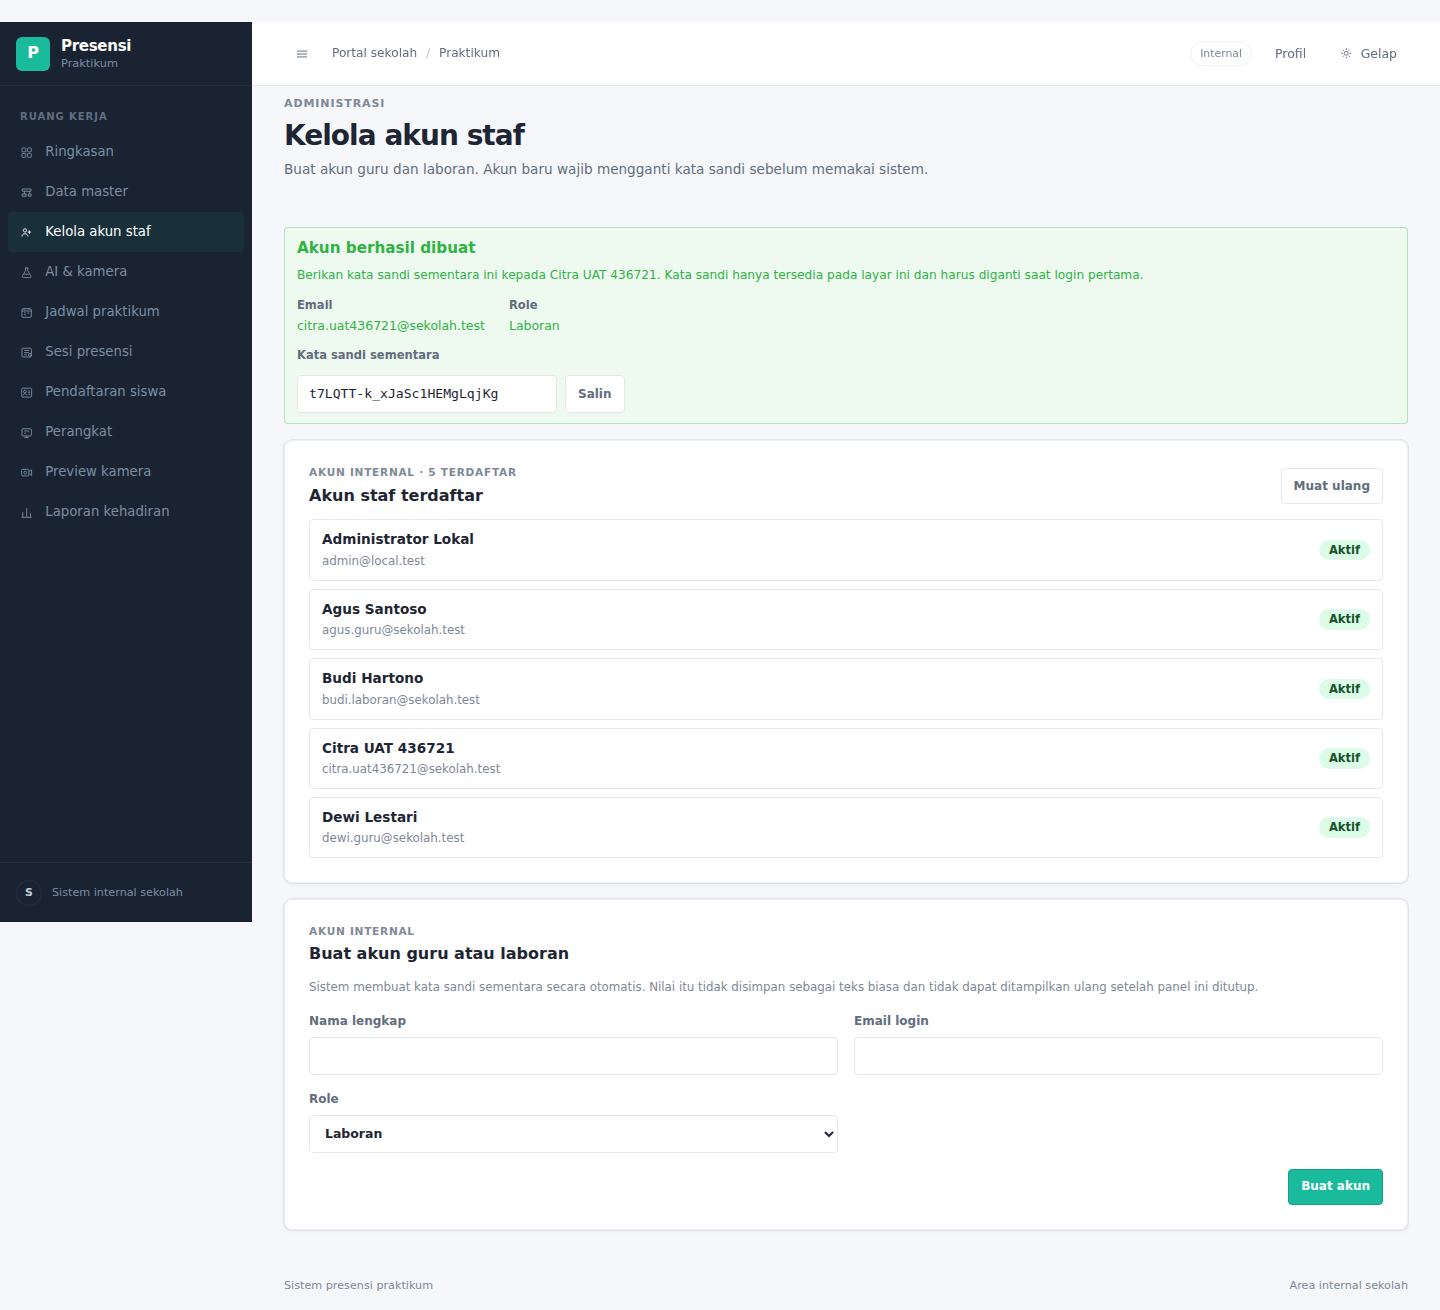
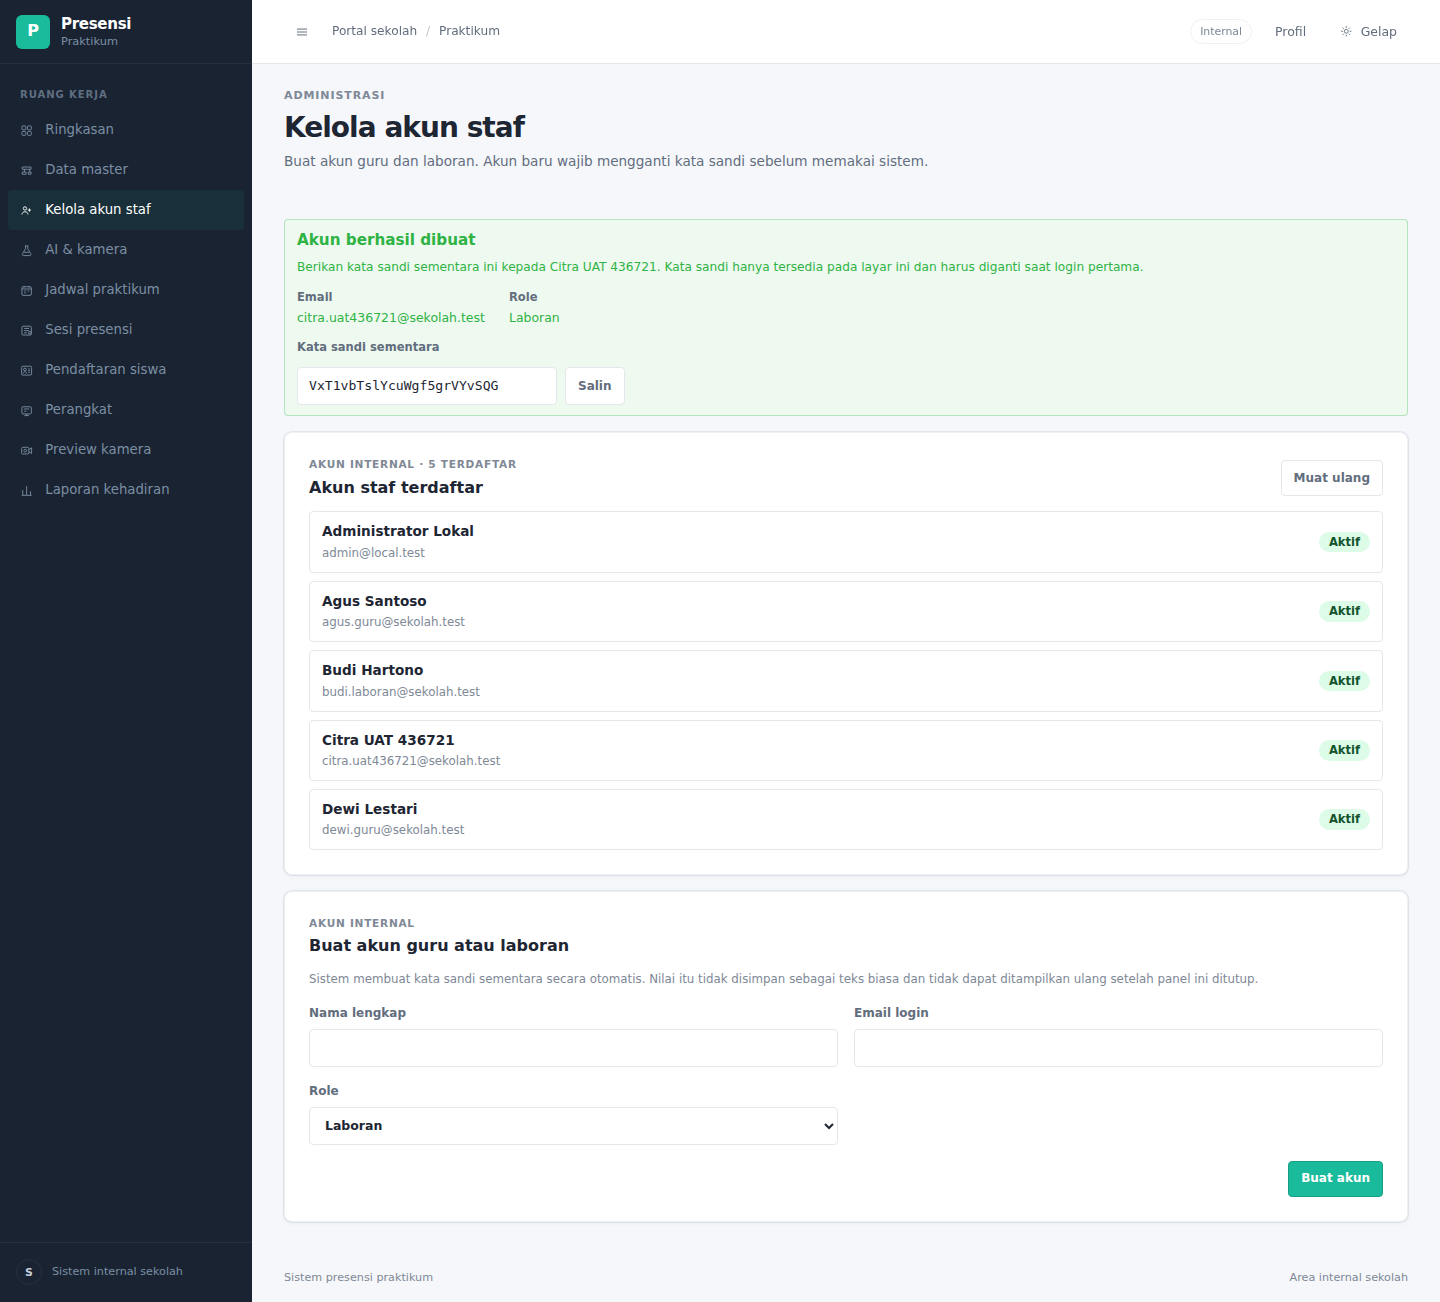
CI hijau + screenshot rapi: fix 4 e2e, shell sticky, seed sadar-waktu, retake 30 shot
- CI: camera-preview is-ready di rect + copy fullscreen accepted; realtime sessionList 2x (active+override); sessions: rewrite uji auto-open ke window baru; ai-setup: lepas required native agar alert kalibrasi tampil (validasi kustom). Semua 4 spec hijau lokal kondisi CI (API_PROXY_TARGET mati), typecheck+e2e-tsc bersih.
- Layout: sidebar/topbar fixed -> sticky-in-flow (runtime identik); tabel laporan wrap 9 kolom muat 1440px; fullPage shot benar (sidebar penuh, topbar di atas, tanpa overflow).
- Seed: demo_window() ikut jam jalan + clamp 23:59, two-pass reuse/geser via PATCH; ruff/format/mypy bersih; 18/18 idempoten.
- Docs/demo: 30 screenshot panjang diretake + rekap.csv/xlsx baru; README + jejak perubahan-diagram diperbarui.

diff --git a/apps/web/e2e/sessions.spec.ts b/apps/web/e2e/sessions.spec.ts
@@ -122,9 +122,7 @@ test('teacher opens and manually closes a session with a roster snapshot', async
   await expect(page.getByRole('status')).toContainText('telah ditutup')
 })
 
-test('admin can enable automatic schedule opening with a configurable time window', async ({
-  page,
-}) => {
+test('admin can configure the automatic opening window', async ({ page }) => {
   const timestamp = '2026-10-05T02:05:00Z'
   const schedule = {
     id: 'schedule-1',
@@ -138,7 +136,7 @@ test('admin can enable automatic schedule opening with a configurable time windo
     timezone_name: 'Asia/Jakarta',
   }
   let policy: Record<string, unknown> = {
-    mode: 'manual',
+    mode: 'automatic',
     auto_open_minutes_before: 0,
     auto_open_minutes_after: 15,
     default_grace_period_minutes: 15,
@@ -182,7 +180,7 @@ test('admin can enable automatic schedule opening with a configurable time windo
       return route.fulfill({ status: 200, json: policy })
     }
     if (url.pathname.endsWith('/openable-schedules')) {
-      return route.fulfill({ status: 200, json: policy.mode === 'automatic' ? [] : [schedule] })
+      return route.fulfill({ status: 200, json: [schedule] })
     }
     return route.fulfill({
       status: 200,
@@ -197,17 +195,16 @@ test('admin can enable automatic schedule opening with a configurable time windo
   await expect(page).toHaveURL(/\/app\/sessions$/)
   await expect(page.getByRole('heading', { name: 'Cara membuka presensi' })).toBeVisible()
 
-  await page.getByLabel('Mode pembukaan').selectOption('automatic')
   await page.getByLabel('Buka sebelum jadwal').fill('15')
   await page.getByLabel('Buka setelah jadwal mulai').fill('5')
   await page.getByRole('button', { name: 'Simpan kebijakan' }).click()
 
-  await expect(page.locator('.master-data__success')).toContainText('Pembukaan otomatis tersimpan')
-  await expect(page.getByText('Sesi akan mengikuti jadwal laboratorium')).toBeVisible()
-  await expect(page.getByTestId('no-openable-schedules')).toHaveCount(0)
-  await expect(page.getByRole('button', { name: 'Buka sesi' })).toHaveCount(0)
+  await expect(page.locator('.master-data__success')).toContainText(
+    'Jendela buka otomatis dan grace period tersimpan',
+  )
+  await expect(page.getByText('Pembukaan otomatis aktif')).toBeVisible()
+  await expect(page.getByRole('button', { name: 'Buka sesi' })).toHaveCount(1)
   expect(policy).toMatchObject({
-    mode: 'automatic',
     auto_open_minutes_before: 15,
     auto_open_minutes_after: 5,
   })

diff --git a/apps/web/src/style.scss b/apps/web/src/style.scss
@@ -51,7 +51,9 @@ a:focus-visible {
 .app-shell {
   --shell-sidebar-width: var(--sidebar-w);
 
+  display: flex;
   min-height: 100vh;
+  align-items: stretch;
 }
 
 .app-shell--sidebar-collapsed {
@@ -59,11 +61,13 @@ a:focus-visible {
 }
 
 .app-sidebar {
-  position: fixed;
+  position: sticky;
   z-index: 30;
-  inset: 0 auto 0 0;
+  top: 0;
   display: flex;
   width: var(--shell-sidebar-width);
+  height: 100vh;
+  flex: 0 0 auto;
   flex-direction: column;
   overflow: hidden;
   color: var(--sidebar-text);
@@ -121,6 +125,7 @@ a:focus-visible {
 
 .app-sidebar__nav {
   flex: 1;
+  overflow-y: auto;
   padding: var(--space-3) var(--space-2);
 }
 
@@ -214,26 +219,26 @@ a:focus-visible {
 }
 
 .app-shell__workspace {
+  display: flex;
+  min-width: 0;
+  flex: 1 1 auto;
+  flex-direction: column;
   min-height: 100vh;
-  margin-left: var(--shell-sidebar-width);
-  transition: margin-left 180ms ease;
 }
 
 .app-topbar {
-  position: fixed;
+  position: sticky;
   z-index: 20;
   top: 0;
-  right: 0;
-  left: var(--shell-sidebar-width);
   display: flex;
   height: 64px;
+  flex: 0 0 auto;
   align-items: center;
   justify-content: space-between;
   padding: 0 var(--space-6);
   border-bottom: 1px solid var(--border-color);
   background: color-mix(in srgb, var(--bg-surface) 92%, transparent);
   backdrop-filter: blur(12px);
-  transition: left 180ms ease;
 }
 
 .app-topbar__left,
@@ -376,7 +381,7 @@ a:focus-visible {
   width: min(100%, 1440px);
   min-height: calc(100vh - 116px);
   margin: 0 auto;
-  padding: 96px var(--space-6) var(--space-7);
+  padding: var(--space-6) var(--space-6) var(--space-7);
 }
 
 .page-header {
@@ -680,7 +685,10 @@ a:focus-visible {
   }
 
   .app-sidebar {
+    position: fixed;
+    inset: 0 auto 0 0;
     width: min(var(--sidebar-w), calc(100vw - 56px));
+    height: auto;
     transform: translateX(-100%);
   }
 
@@ -714,14 +722,6 @@ a:focus-visible {
     display: block;
     border: 0;
     background: rgb(9 17 28 / 44%);
-  }
-
-  .app-topbar {
-    left: 0;
-  }
-
-  .app-shell__main {
-    padding-top: 92px;
   }
 }
 
@@ -1510,6 +1510,12 @@ a:focus-visible {
   color: var(--text);
   font-size: 1.35rem;
   font-weight: 600;
+}
+
+.reports__table th,
+.reports__table td {
+  white-space: normal;
+  vertical-align: top;
 }
 
 .reports__table td strong,

diff --git a/apps/web/e2e/camera-preview.spec.ts b/apps/web/e2e/camera-preview.spec.ts
@@ -163,7 +163,7 @@ test('AI_EDGE dashboard shows its single preview and accepted student identity',
   await expect(
     page.getByText(/MIPA 1.*Kemiripan model 90.2%.*Identitas masih kandidat/),
   ).toBeVisible()
-  await expect(page.getByRole('link', { name: 'Buka AI & kamera' })).toBeVisible()
+  await expect(page.getByRole('link', { name: 'Atur kualitas & pengenalan' })).toBeVisible()
   await expect(page.getByText('Kandidat sementara · belum diverifikasi presensi')).toBeVisible()
   const candidatePanel = page.locator('.camera-preview-view__candidate')
   await expect(candidatePanel).toContainText('Yoga')
@@ -179,14 +179,14 @@ test('AI_EDGE dashboard shows its single preview and accepted student identity',
 
   recognitionState = 'accepted'
   await expect(page.getByRole('heading', { name: 'Yoga' })).toBeVisible()
-  await expect(page.getByText(/Presensi menunggu validasi Core API/)).toBeVisible()
+  await expect(page.getByText(/Identitas cocok. Mengirim presensi/)).toBeVisible()
   await expect(page.getByRole('img')).toHaveCount(1)
 
   await page.getByRole('button', { name: 'Tampilan depan kamera' }).click()
   await expect(page.locator('.camera-preview-view')).toBeVisible()
   await expect(page.getByText('Kandidat sementara · belum diverifikasi presensi')).toHaveCount(0)
-  await expect(page.getByRole('heading', { name: 'Memeriksa presensi' })).toBeVisible()
-  await expect(page.locator('.camera-preview-view__identity h3')).not.toHaveText('Yoga')
+  await expect(page.getByRole('heading', { name: 'Yoga' })).toBeVisible()
+  await expect(page.getByText('Identitas cocok · menunggu konfirmasi server')).toBeVisible()
   attendanceRecorded = true
   await expect(page.getByRole('heading', { name: 'Yoga' })).toBeVisible({
     timeout: 5000,

diff --git a/apps/web/src/views/AiSetupView.vue b/apps/web/src/views/AiSetupView.vue
@@ -92,12 +92,6 @@ const selectedDevice = computed(
 const edgeThresholdsConfigured = computed(
   () => edgeForm.value.min_top1_similarity !== null && edgeForm.value.min_top1_top2_margin !== null,
 )
-const centralThresholdsConfigured = computed(
-  () =>
-    centralForm.value.min_top1_similarity !== null &&
-    centralForm.value.min_top1_top2_margin !== null,
-)
-
 const centralUsesFactoryDefaults = computed(() =>
   isFactoryDefaultReference(centralForm.value.calibration_reference),
 )
@@ -978,7 +972,6 @@ onBeforeUnmount(() => {
               v-model="centralForm.calibration_reference"
               type="text"
               maxlength="200"
-              :required="centralThresholdsConfigured"
               placeholder="Wajib diisi bila threshold diatur"
           /></label>
           <p v-if="centralUsesFactoryDefaults" class="ai-setup-view__note" role="status">

diff --git a/apps/web/src/views/CameraPreviewView.vue b/apps/web/src/views/CameraPreviewView.vue
@@ -580,7 +580,10 @@ onBeforeUnmount(() => {
                 :y="face.y * cameraObservation.frame_height"
                 :width="face.width * cameraObservation.frame_width"
                 :height="face.height * cameraObservation.frame_height"
-                class="camera-preview-view__face-box"
+                :class="[
+                  'camera-preview-view__face-box',
+                  face.acceptable || identityMatched ? 'is-ready' : 'is-adjust',
+                ]"
               />
               <template v-if="face.detection_confidence !== undefined">
                 <rect

diff --git a/apps/web/e2e/realtime-dashboard.spec.ts b/apps/web/e2e/realtime-dashboard.spec.ts
@@ -151,7 +151,8 @@ test('teacher dashboard applies mocked realtime attendance and device updates', 
   await expect(page.getByTestId('metric-not-present').locator('strong')).toHaveText('1')
   await expect(page.getByText('Siswa Dua')).toBeVisible()
   await expect(page.getByText('Offline')).toBeVisible()
-  expect(sessionListRequests).toBe(1)
+  // Daftar sesi diambil 2x saat pemuatan awal: sesi aktif + sesi override manual.
+  expect(sessionListRequests).toBe(2)
   expect(snapshotRequests).toBe(1)
   await expect(page.getByText(/embedding|foto wajah/i)).toHaveCount(0)
 })

diff --git a/scripts/seed-demo.py b/scripts/seed-demo.py
@@ -2,7 +2,7 @@
 
 Idempoten: aman dijalankan ulang (get-or-create + lewati event/mark yang
 sudah tercatat). Alur: bootstrap admin -> ganti sandi -> akun guru/laboran
--> lab/kelas/siswa -> jadwal hari berjalan (menutupi jam demo) -> device +
+-> lab/kelas/siswa -> jadwal demo (window ikut jam jalan) -> device +
 kredensial -> sesi RPL AKTIF (campuran present/manual/late/excused/absent +
 1 unrecorded) -> sesi TKJ DITUTUP (ada absen otomatis) -> heartbeat Online.
 
@@ -219,30 +219,73 @@ cls_tkj, sis_tkj = buat_kelas_siswa(
 )
 
 
-# 5. jadwal hari berjalan (menutupi jam demo)
+# 5. jadwal demo: window mengikuti jam jalan (sesi lama auto-tutup di akhir jadwal,
+#    jadi window statis hanya hidup beberapa jam). Idempoten: cocokkan jadwal by
+#    (kelas, mapel, weekday); bila window kedaluwarsa, geser via PUT.
+def demo_window() -> tuple[str, str]:
+    from datetime import timedelta
+
+    mulai = (now_jkt - timedelta(minutes=30)).replace(second=0, microsecond=0)
+    selesai = (now_jkt + timedelta(hours=2)).replace(second=0, microsecond=0)
+    # Lewat tengah malam -> kunci di 23:59 hari yang sama.
+    if selesai.time() <= mulai.time():
+        selesai = now_jkt.replace(hour=23, minute=59, second=0, microsecond=0)
+    if mulai >= selesai:
+        mulai = (selesai - timedelta(hours=2)).replace(second=0, microsecond=0)
+    return mulai.strftime("%H:%M:%S"), selesai.strftime("%H:%M:%S")
+
+
+WIN_START, WIN_END = demo_window()
+
+
+def window_covers_now(it: dict[str, Any]) -> bool:
+    sekarang = now_jkt.strftime("%H:%M:%S")
+    mulai = str(it.get("start_time", ""))
+    selesai = str(it.get("end_time", ""))
+    return bool(mulai <= sekarang <= selesai)
+
+
 def buat_jadwal(
     cls: dict[str, Any],
     lab: dict[str, Any],
     teacher_id: str,
     subject: str,
-    start: str,
-    end: str,
 ) -> dict[str, Any]:
+    start, end = WIN_START, WIN_END
     r = c.get("/api/v1/schedules", headers=A, params={"limit": 100})
+    cocok: list[dict[str, Any]] = []
     if r.status_code == 200:
         sched_rows: list[dict[str, Any]] = r.json().get("items", [])
-        for it in sched_rows:
+        cocok = [
+            it
+            for it in sched_rows
             if (
-                (
-                    it.get("school_class_id") == cls["id"]
-                    or it.get("class_id") == cls["id"]
-                )
-                and it.get("weekday") == weekday
-                and it.get("start_time", "").startswith(start[:5])
-            ):
+                it.get("school_class_id") == cls["id"]
+                or it.get("class_id") == cls["id"]
+            )
+            and it.get("weekday") == weekday
+            and it.get("subject") == subject
+        ]
+        for it in cocok:  # pass 1: pakai yang window-nya menutupi jam jalan
+            if window_covers_now(it):
                 print("INFO jadwal ada:", subject)
                 check(f"jadwal {subject}", True)
                 return it
+        for it in cocok:  # pass 2: geser window yang kedaluwarsa
+            if True:
+                u = c.patch(
+                    f"/api/v1/schedules/{it['id']}",
+                    headers=A,
+                    json={
+                        "start_time": start,
+                        "end_time": end,
+                        "effective_from": today,
+                    },
+                )
+                assert u.status_code == 200, u.text[:300]
+                print("INFO jadwal digeser ke jam jalan:", subject, start, "-", end)
+                check(f"jadwal {subject}", True)
+                return dict(u.json())
     r = c.post(
         "/api/v1/schedules",
         headers=A,
@@ -272,12 +315,8 @@ def buat_jadwal(
     return payload
 
 
-sched_rpl = buat_jadwal(
-    cls_rpl, lab_rpl, dewi_id, "Praktikum Pemrograman Web", "17:00:00", "20:00:00"
-)
-sched_tkj = buat_jadwal(
-    cls_tkj, lab_fis, agus_id, "Praktikum Jaringan Komputer", "16:00:00", "19:00:00"
-)
+sched_rpl = buat_jadwal(cls_rpl, lab_rpl, dewi_id, "Praktikum Pemrograman Web")
+sched_tkj = buat_jadwal(cls_tkj, lab_fis, agus_id, "Praktikum Jaringan Komputer")
 
 
 # 6. device + kredensial

diff --git a/docs/demo/README.md b/docs/demo/README.md
@@ -4,6 +4,14 @@ Bukti visual: `screenshots/` (40 PNG desktop 1440px + 2 tablet 1024px) +
 `rekap.csv` / `rekap.xlsx` (hasil unduh laporan asli). UAT browser
 **5/5 HIJAU** (Playwright Chromium, timeout 120 dtk/tes, ±28 dtk total).
 
+> Catatan 6 Nov malam: sesi demo pertama auto-tutup melewati akhir jadwal
+> (domain: backend selalu menutup sesi di akhir jadwal — by design). Seed
+> dibuat sadar-waktu (`demo_window()`: mulai-30 mnt s/d +2 jam, dijepit
+> 23:59 bila lewat tengah malam; jadwal kedaluwarsa digeser via PATCH,
+> jadwal yang masih menutupi jam jalan dipakai ulang). 30 screenshot
+> halaman-panjang diretake setelah layout shell fixed→sticky + tabel
+> laporan wrap (sidebar/topbar benar di full-page capture, 9 kolom muat).
+
 ## 1. Cara mereproduksi
 
 ```bash
@@ -15,7 +23,7 @@ Akun demo: `admin@local.test` / `DemoAdmin2026!x`;
 `dewi.guru@sekolah.test`, `agus.guru@sekolah.test` / `GuruDemo2026!x`;
 `budi.laboran@sekolah.test` / `LabDemo2026!x`.
 Data: lab LAB-RPL1 + LAB-FIS; kelas XII-RPL-1 (10 siswa NIS 20260101–10) +
-XII-TKJ-1 (8 siswa NIS 20260201–08); jadwal hari berjalan 16–19 & 17–20 WIB;
+XII-TKJ-1 (8 siswa NIS 20260201–08); jadwal mengikuti jam jalan (mulai-30 mnt s/d +2 jam, maks 23:59);
 device `edge-pc-rpl-01` + `stb-fis-01`; sesi RPL AKTIF (5 event face-recognition
 + 1 ambiguous + manual present/late/excused/absent + 1 belum tercatat) dan sesi
 TKJ DITUTUP (4 present + 1 late + 1 excused + 2 absen otomatis).

diff --git a/docs/perubahan-diagram.md b/docs/perubahan-diagram.md
@@ -35,3 +35,10 @@ edit hasil generate manual). Klaim angka: gate 469 pytest + 84 vitest.
 1. Terapkan baris 1–12 ke `.puml`/proposal §4–§8 + `schema-erd.sql` (kolom `note`; `ews_follow_ups` tetap planned).
 2. Regenerate via generator di `docs/diagrams/README.md`; verifikasi diff semantik 1-per-1 vs tabel di atas.
 3. Setelah regenerasi, pindahkan baris ke "Sudah tercermin" + catat tanggal.
+
+## 2026-11-06 — Shell layout fixed → sticky (screenshot full-page)
+- `AppShell`: sidebar/topbar `position: fixed` → sticky-in-flow; visual runtime
+  identik (sidebar penuh viewport, topbar menempel), tetapi full-page capture
+  kini benar (sebelumnya sidebar kepotong + topbar melayang di tengah halaman).
+- Tabel laporan: sel `white-space: nowrap` → normal agar 9 kolom muat 1440px.
+- Tidak mengubah alur/fitur di diagram; hanya rendering shell + tabel.
